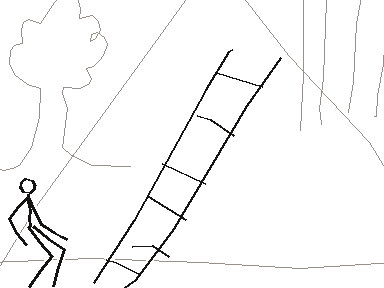
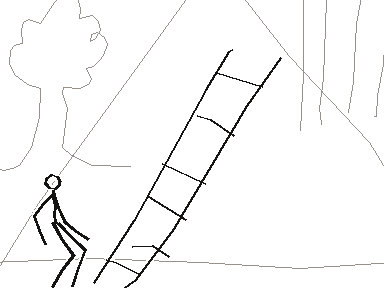
Wave 5: ladder accepted after six rounds (54)
Claude-Session: https://claude.ai/code/session_01FBBGQuqBhRj2nP7JYE42dZ

Changed region(s): [[0.0312, 0.5938, 0.25, 1.0], [0.0625, 0.9688, 0.0938, 1.0], [0.0, 0.75, 0.0312, 0.7812]]

diff --git a/docs/giraffe-walks-past.md b/docs/giraffe-walks-past.md
@@ -394,7 +394,7 @@ The goal for this wave was fifty new subjects that a blind critic passes on all 
   footage (f.png) and the drawings overlaid on one panel (g.png). The critic reads frame-to-frame jumps from these
   instead of from a 16-frame strip.
 - **Drawn keys and repairs.** When a critic named a gap, a repair agent drew keys over the footage
-  (`shots/<slug>/drawn/`) or changed the scene, then a fresh blind critic judged it again. 138 critic verdicts
+  (`shots/<slug>/drawn/`) or changed the scene, then a fresh blind critic judged it again. 140 critic verdicts
   were written in all.
 - **What repairs learned** (now in the drawing instructions): keep each stroke's point count so resampling does not
   flicker corners; draw a key on every rig key frame; turn a rigid part by rotating one fixed shape, never by
@@ -402,9 +402,9 @@ The goal for this wave was fifty new subjects that a blind critic passes on all 
   a whole stroke at once; scenery that moves (a hand, a rope of ice cream, a turning base) is drawn as one copy per
   frame, each visible on its own frame.
 
-Result: **53 subjects pass** (bar met, identity met, motion 4 or 5). 5 score 5
+Result: **54 subjects pass** (bar met, identity met, motion 4 or 5). 5 score 5
 (fish, baseball-bat, umbrella, popsicle, cell-phone). The rest score 4.
-2 did not pass after repeated rounds and are reported as they stand: ladder (6 rounds, motion 4), book (4 rounds, motion 3). In each the critic still sees one gap: the timing of a fast event spread or bunched against the film, or a part that changes shape in one frame.
+1 did not pass after repeated rounds and are reported as they stand: book (5 rounds, motion 3). In each the critic still sees one gap: the timing of a fast event spread or bunched against the film, or a part that changes shape in one frame.
 
 Stated plainly: the critics judge still frames, not playback. Their requests sometimes conflict between rounds
 (one critic asked the apple to shrink at the end, the next said the film's apple does not shrink), and the
@@ -441,6 +441,7 @@ doodle's own left claw.
 | helmet | 2 | bar met | 4 | bar met |
 | hourglass | 2 | bar met | 4 | bar met |
 | ice-cream | 9 | bar met | 4 | bar met |
+| ladder | 7 | bar met | 4 | bar met |
 | lantern | 1 | bar met | 4 | bar met |
 | lobster | 8 | bar met | 4 | bar met |
 | lollipop | 1 | bar met | 4 | bar met |
@@ -467,5 +468,4 @@ doodle's own left claw.
 | wine-bottle | 1 | bar met | 4 | bar met |
 | wine-glass | 1 | bar met | 4 | bar met |
 | yoga | 2 | bar met | 4 | bar met |
-| book | 4 | reference stronger | 3 | bar met |
-| ladder | 6 | reference stronger | 4 | bar met |
+| book | 5 | reference stronger | 3 | bar met |
